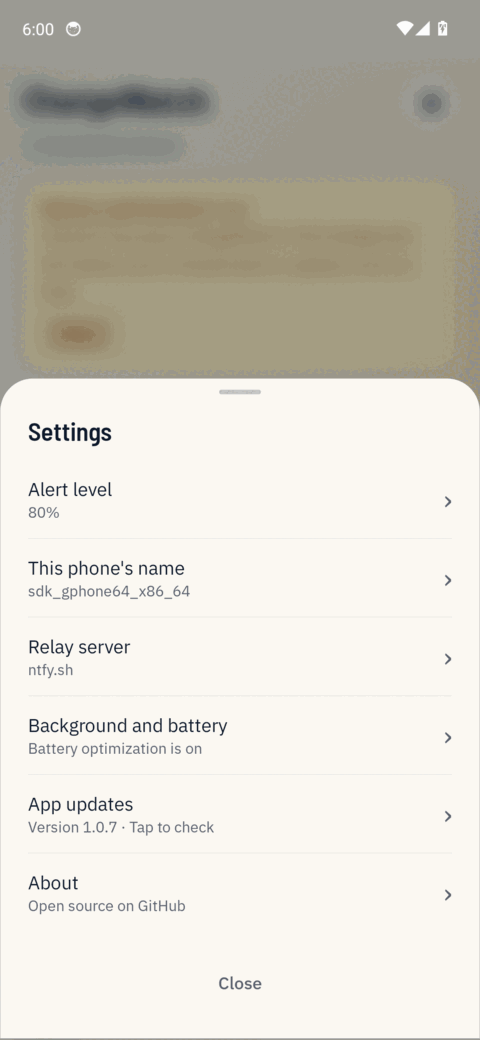
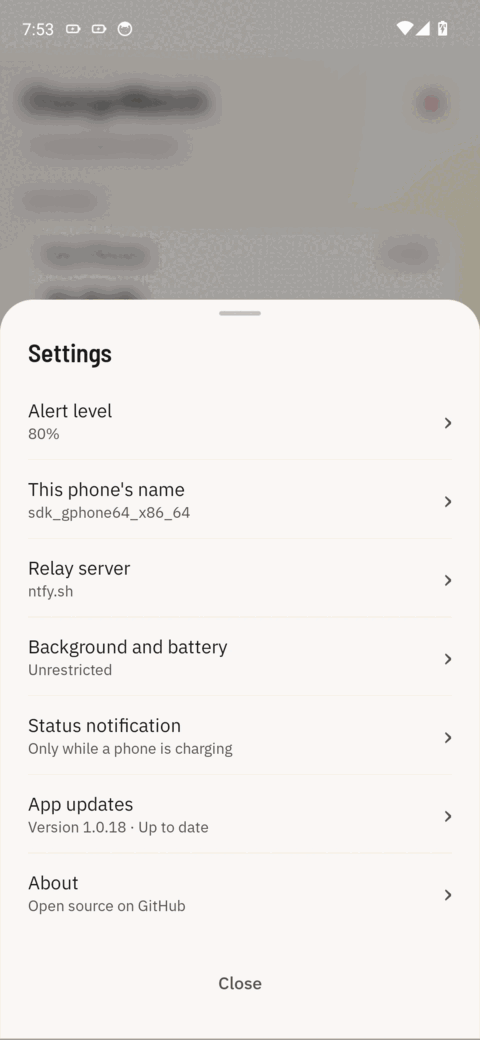
README: screenshots in the new theme, plus the charging notification
Claude-Session: https://claude.ai/code/session_012PKbr4c1fVCgbQJ48tehjx

diff --git a/README.md b/README.md
@@ -34,10 +34,11 @@ The main screen lists every paired phone with its battery level, whether it is c
 2. "Pixel 7 is fully charged. You can use it now." when it reaches 100%.
 
 <p align="center">
-  <img src="docs/screenshots/alerts.png" width="360" alt="The full-charge alert in the notification shade">
+  <img src="docs/screenshots/charging.png" width="400" alt="While a phone charges: the charging status and the 80% alert">
+  <img src="docs/screenshots/alerts.png" width="400" alt="The fully charged alert">
 </p>
 
-Each alert fires once per charge. A phone that hovers at 99/100% or sits at an 80% charge limit does not spam you.
+The status notification only shows while a phone is charging, and it names that phone. Each alert fires once per charge. A phone that hovers at 99/100% or sits at an 80% charge limit does not spam you.
 
 ## Install
 
